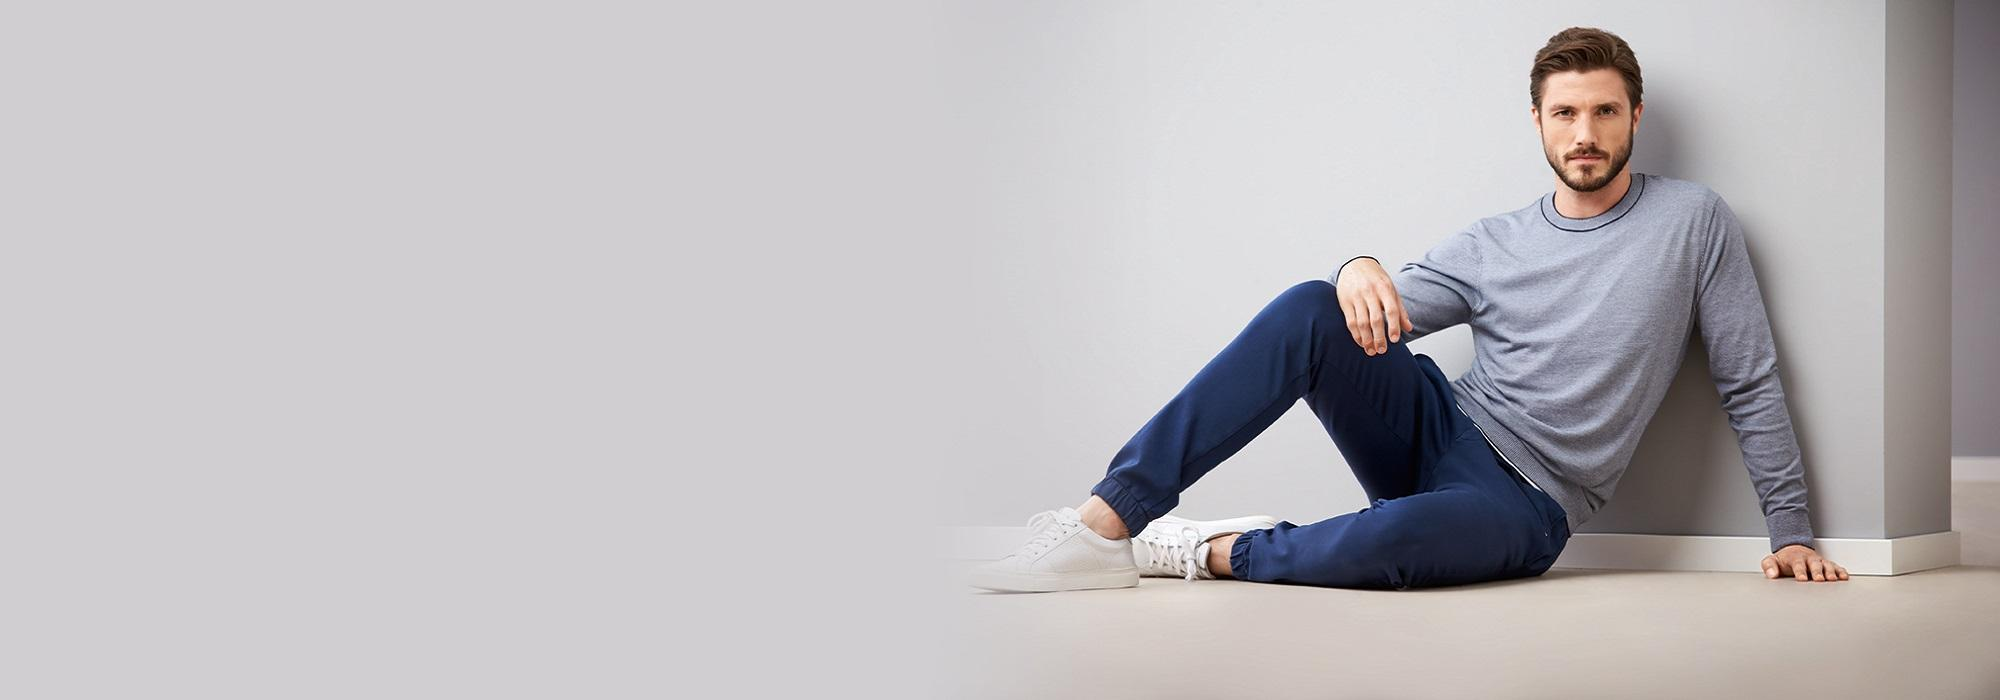
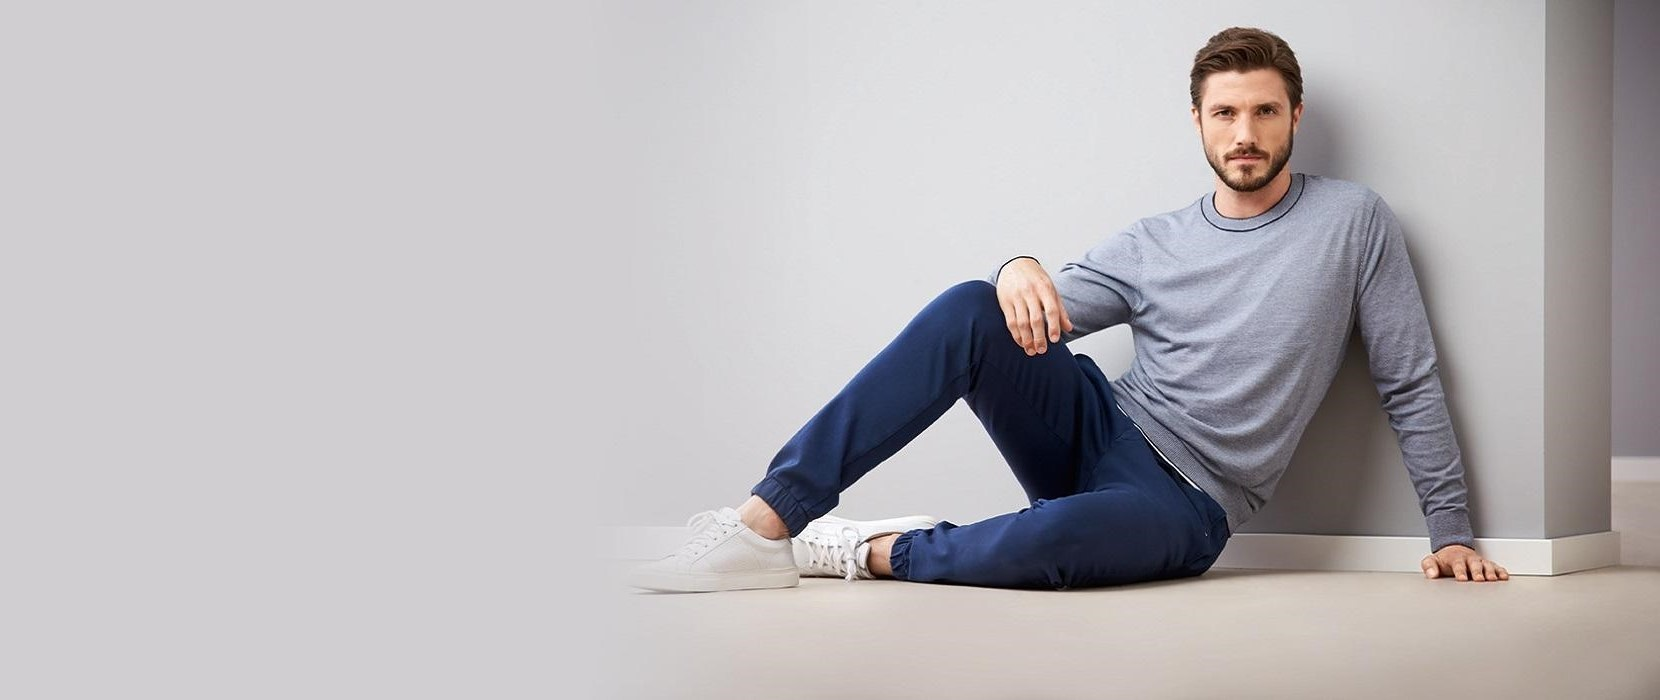
Commit 17-3

Changed region(s): [[0.3687, 0.0, 0.9831, 0.87]]

diff --git a/public/customer_css/style.css b/public/customer_css/style.css
@@ -11,3 +11,164 @@
     /* ---------------------------------------
     ##### - PLACE YOUR CUSTOM CSS HERE - #####
     --------------------------------------- */
+    /*---------------------
+  Hero Section
+-----------------------*/
+
+.hero-items .single-hero-items {
+	height: 700px;
+	padding-top: 210px;
+}
+
+.hero-items .single-hero-items span {
+	color: #e7ab3c;
+	font-size: 12px;
+	font-weight: 700;
+	letter-spacing: 2px;
+	text-transform: uppercase;
+	line-height: 28px;
+	display: inline-block;
+	position: relative;
+	top: 50px;
+	opacity: 0;
+}
+
+.hero-items .single-hero-items h1 {
+	color: #252525;
+	font-size: 72px;
+	font-weight: 700;
+	margin-bottom: 6px;
+	position: relative;
+	top: 50px;
+	opacity: 0;
+}
+
+.hero-items .single-hero-items p {
+	margin-bottom: 42px;
+	position: relative;
+	top: 100px;
+	opacity: 0;
+}
+
+.hero-items .single-hero-items .primary-btn {
+	position: relative;
+	top: 100px;
+	opacity: 0;
+}
+
+.hero-items .off-card {
+	height: 154px;
+	width: 154px;
+	padding-top: 40px;
+	border-radius: 50%;
+	text-align: center;
+	line-height: 140px;
+	position: absolute;
+	left: 47%;
+	top: 160px;
+	background: #e7ab3c;
+	z-index: 1;
+	-webkit-transform: rotate(45deg);
+	-ms-transform: rotate(45deg);
+	transform: rotate(45deg);
+	opacity: 0;
+}
+
+.hero-items .off-card:after {
+	position: absolute;
+	left: 5px;
+	top: 5px;
+	width: calc(100% - 10px);
+	height: calc(100% - 10px);
+	border: 2px dashed #ffffff;
+	content: "";
+	border-radius: 50%;
+	z-index: -1;
+}
+
+.hero-items .off-card h2 {
+	font-size: 32px;
+	font-weight: 700;
+	color: #ffffff;
+	text-transform: uppercase;
+}
+
+.hero-items .off-card h2 span {
+	display: block;
+	font-size: 32px;
+	font-weight: 700;
+	color: #ffffff;
+	text-transform: uppercase;
+	margin-top: 6px;
+}
+
+.hero-items .owl-item.active .single-hero-items span,
+.hero-items .owl-item.active .single-hero-items h1,
+.hero-items .owl-item.active .single-hero-items p,
+.hero-items .owl-item.active .single-hero-items .primary-btn {
+	top: 0;
+	opacity: 1;
+}
+
+.hero-items .owl-item.active .single-hero-items span {
+	-webkit-transition: all 0.2s ease 0.2s;
+	-o-transition: all 0.2s ease 0.2s;
+	transition: all 0.2s ease 0.2s;
+}
+
+.hero-items .owl-item.active .single-hero-items h1 {
+	-webkit-transition: all 0.4s ease 0.4s;
+	-o-transition: all 0.4s ease 0.4s;
+	transition: all 0.4s ease 0.4s;
+}
+
+.hero-items .owl-item.active .single-hero-items p {
+	-webkit-transition: all 0.6s ease 0.6s;
+	-o-transition: all 0.6s ease 0.6s;
+	transition: all 0.6s ease 0.6s;
+}
+
+.hero-items .owl-item.active .single-hero-items .primary-btn {
+	-webkit-transition: all 0.8s ease 0.8s;
+	-o-transition: all 0.8s ease 0.8s;
+	transition: all 0.8s ease 0.8s;
+}
+
+.hero-items .owl-item.active .single-hero-items .off-card {
+	opacity: 1;
+	-webkit-transform: rotate(0deg);
+	-ms-transform: rotate(0deg);
+	transform: rotate(0deg);
+	-webkit-transition: all 1s ease 1s;
+	-o-transition: all 1s ease 1s;
+	transition: all 1s ease 1s;
+}
+
+.hero-items .owl-nav button[type=button] {
+	font-size: 30px;
+	position: absolute;
+	left: 40px;
+	top: 45%;
+	color: #252525;
+}
+
+.hero-items .owl-nav button[type=button]:hover {
+	color: #dfad51;
+}
+
+.hero-items .owl-nav button[type=button].owl-next {
+	left: auto;
+	right: 40px;
+}
+
+/* buttons */
+
+.primary-btn {
+	display: inline-block;
+	font-size: 14px;
+	font-weight: 700;
+	padding: 12px 30px;
+	color: #ffffff;
+	background: #e7ab3c;
+	text-transform: uppercase;
+}

diff --git a/public/customer_js/index.js b/public/customer_js/index.js
@@ -1,0 +1,16 @@
+/*------------------
+        Hero Slider
+    --------------------*/
+    $(".hero-items").owlCarousel({
+        loop: true,
+        margin: 0,
+        nav: true,
+        items: 1,
+        dots: false,
+        animateOut: 'fadeOut',
+        animateIn: 'fadeIn',
+        navText: ['<i class="ti-angle-left"></i>', '<i class="ti-angle-right"></i>'],
+        smartSpeed: 1200,
+        autoHeight: false,
+        autoplay: true,
+    });

diff --git a/resources/views/customer/shop.blade.php b/resources/views/customer/shop.blade.php
@@ -1,6 +1,6 @@
 @extends('customer.layout.index')
 @section('content')
-    <section class="welcome_area bg-img background-overlay" style="background-image: url('/image/gallery/Slider1.jpg');">
+    {{-- <section class="welcome_area bg-img background-overlay" style="background-image: url('/image/gallery/Slider1.jpg');">
         <div class="container h-100">
             <div class="row h-100 align-items-center">
                 <div class="col-12">
@@ -8,6 +8,43 @@
                         <h6>Shopping</h6>
                         <h2>New Collection</h2>
                         <a href="#" class="btn essence-btn">view collection</a>
+                    </div>
+                </div>
+            </div>
+        </div>
+    </section> --}}
+
+    <section class="hero-section">
+        <div class="hero-items owl-carousel">
+            <div class="single-hero-items set-bg" style="background-image: url('/image/gallery/Slider1.jpg');">
+                <div class="container">
+                    <div class="row">
+                        <div class="col-lg-5">
+                            <span>Shopping</span>
+                            <h1>Black friday</h1>
+                            <p>Lorem ipsum dolor sit amet, consectetur adipisicing elit, sed do eiusmod tempor
+                                incididunt ut labore et dolore</p>
+                            <a href="#" class="primary-btn">View Collection</a>
+                        </div>
+                    </div>
+                    <div class="off-card">
+                        <h2>Sale <span>50%</span></h2>
+                    </div>
+                </div>
+            </div>
+            <div class="single-hero-items set-bg" style="background-image: url('/image/gallery/Slider2.jpg');">
+                <div class="container">
+                    <div class="row">
+                        <div class="col-lg-5">
+                            <span>Shopping</span>
+                            <h1>Black friday</h1>
+                            <p>Lorem ipsum dolor sit amet, consectetur adipisicing elit, sed do eiusmod tempor
+                                incididunt ut labore et dolore</p>
+                            <a href="#" class="primary-btn">View Collection</a>
+                        </div>
+                    </div>
+                    <div class="off-card">
+                        <h2>Sale <span>50%</span></h2>
                     </div>
                 </div>
             </div>

diff --git a/resources/views/customer/layout/head.blade.php b/resources/views/customer/layout/head.blade.php
@@ -15,7 +15,7 @@
     <script src="https://kit.fontawesome.com/f52718c374.js" crossorigin="anonymous"></script>
     <link rel="stylesheet" href="{{asset('customer_css/core-style.css')}}">
     <link rel="stylesheet" href="{{asset('customer_css/style.css')}}">
-    <script nonce="d4d17f98-81e8-4f74-b70a-34929b581277">
+    <script nonce="d4d17f98-81e8-4f74-b70a-34929b581277"> 
     (function(w, d) {
         ! function(f, g, h, i) {
             f[h] = f[h] || {};

diff --git a/resources/views/customer/layout/js.blade.php b/resources/views/customer/layout/js.blade.php
@@ -4,6 +4,7 @@
     <script src="{{asset('customer_js/plugins.js')}}"></script>  
     <script src="{{asset('customer_js/classy-nav.min.js')}}"></script>  
     <script src="{{asset('customer_js/active.js')}}"></script>  
+    <script src="{{asset('customer_js/index.js')}}"></script>
 
     <script async src="https://www.googletagmanager.com/gtag/js?id=UA-23581568-13"></script>
     <script>
